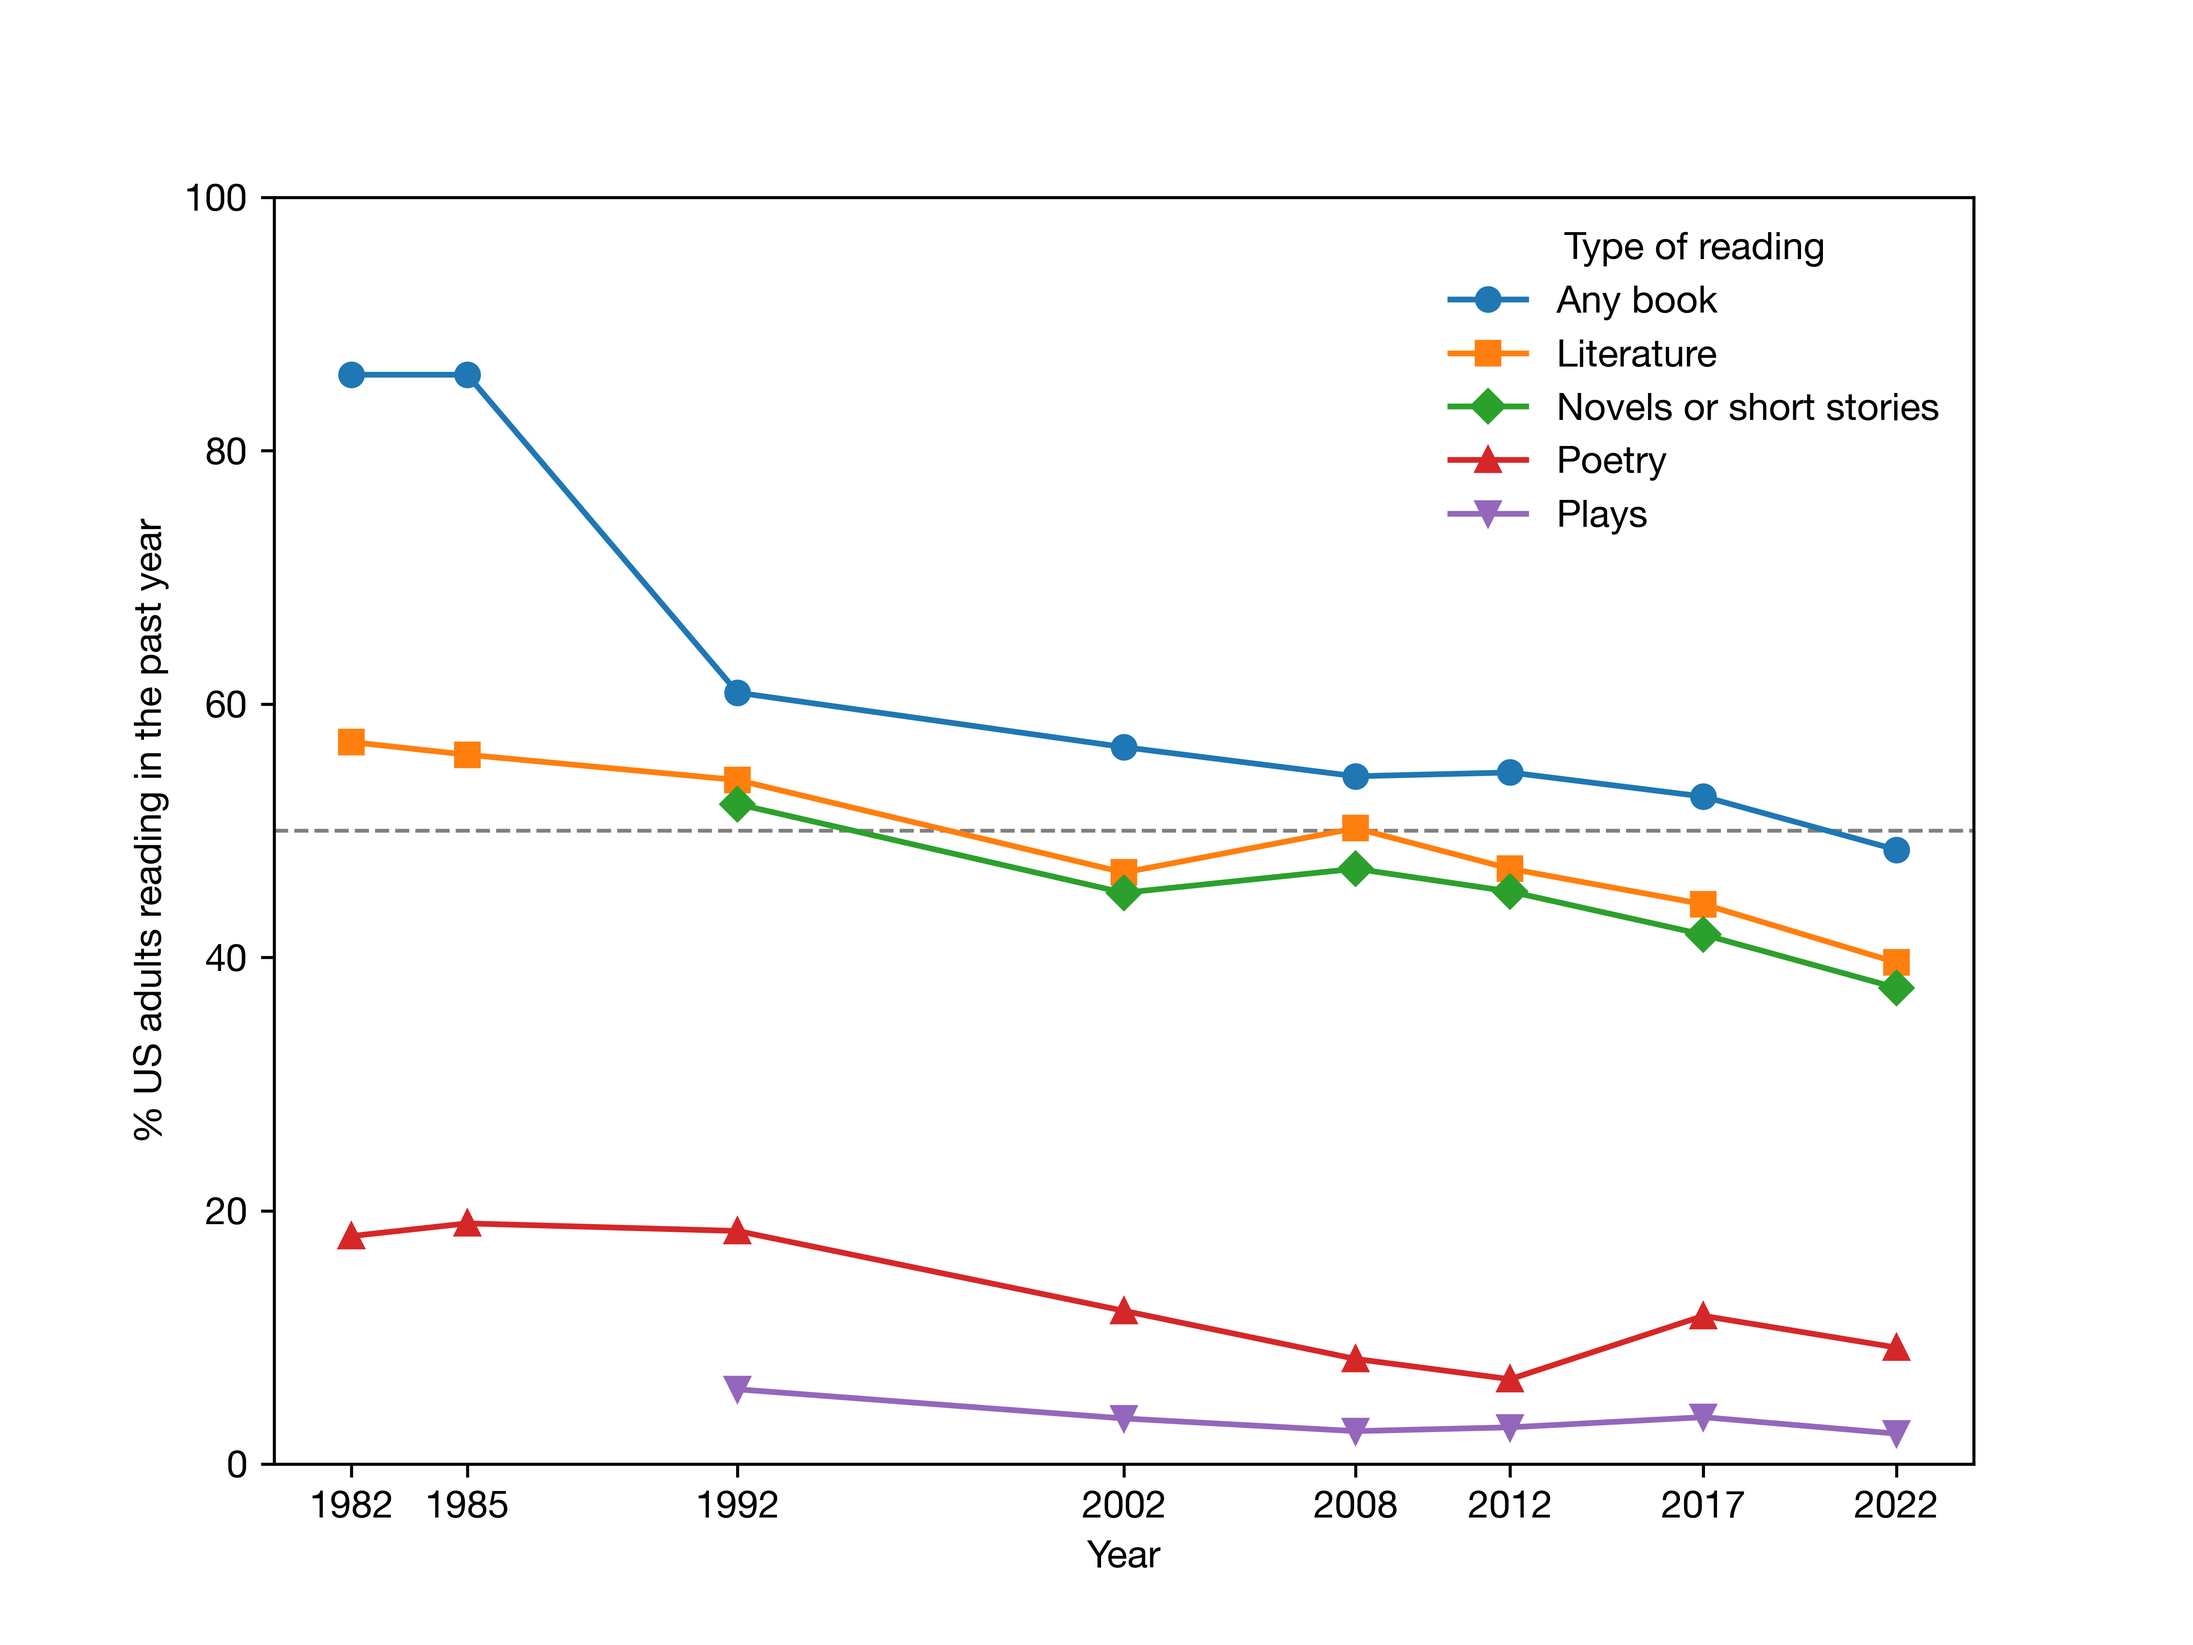
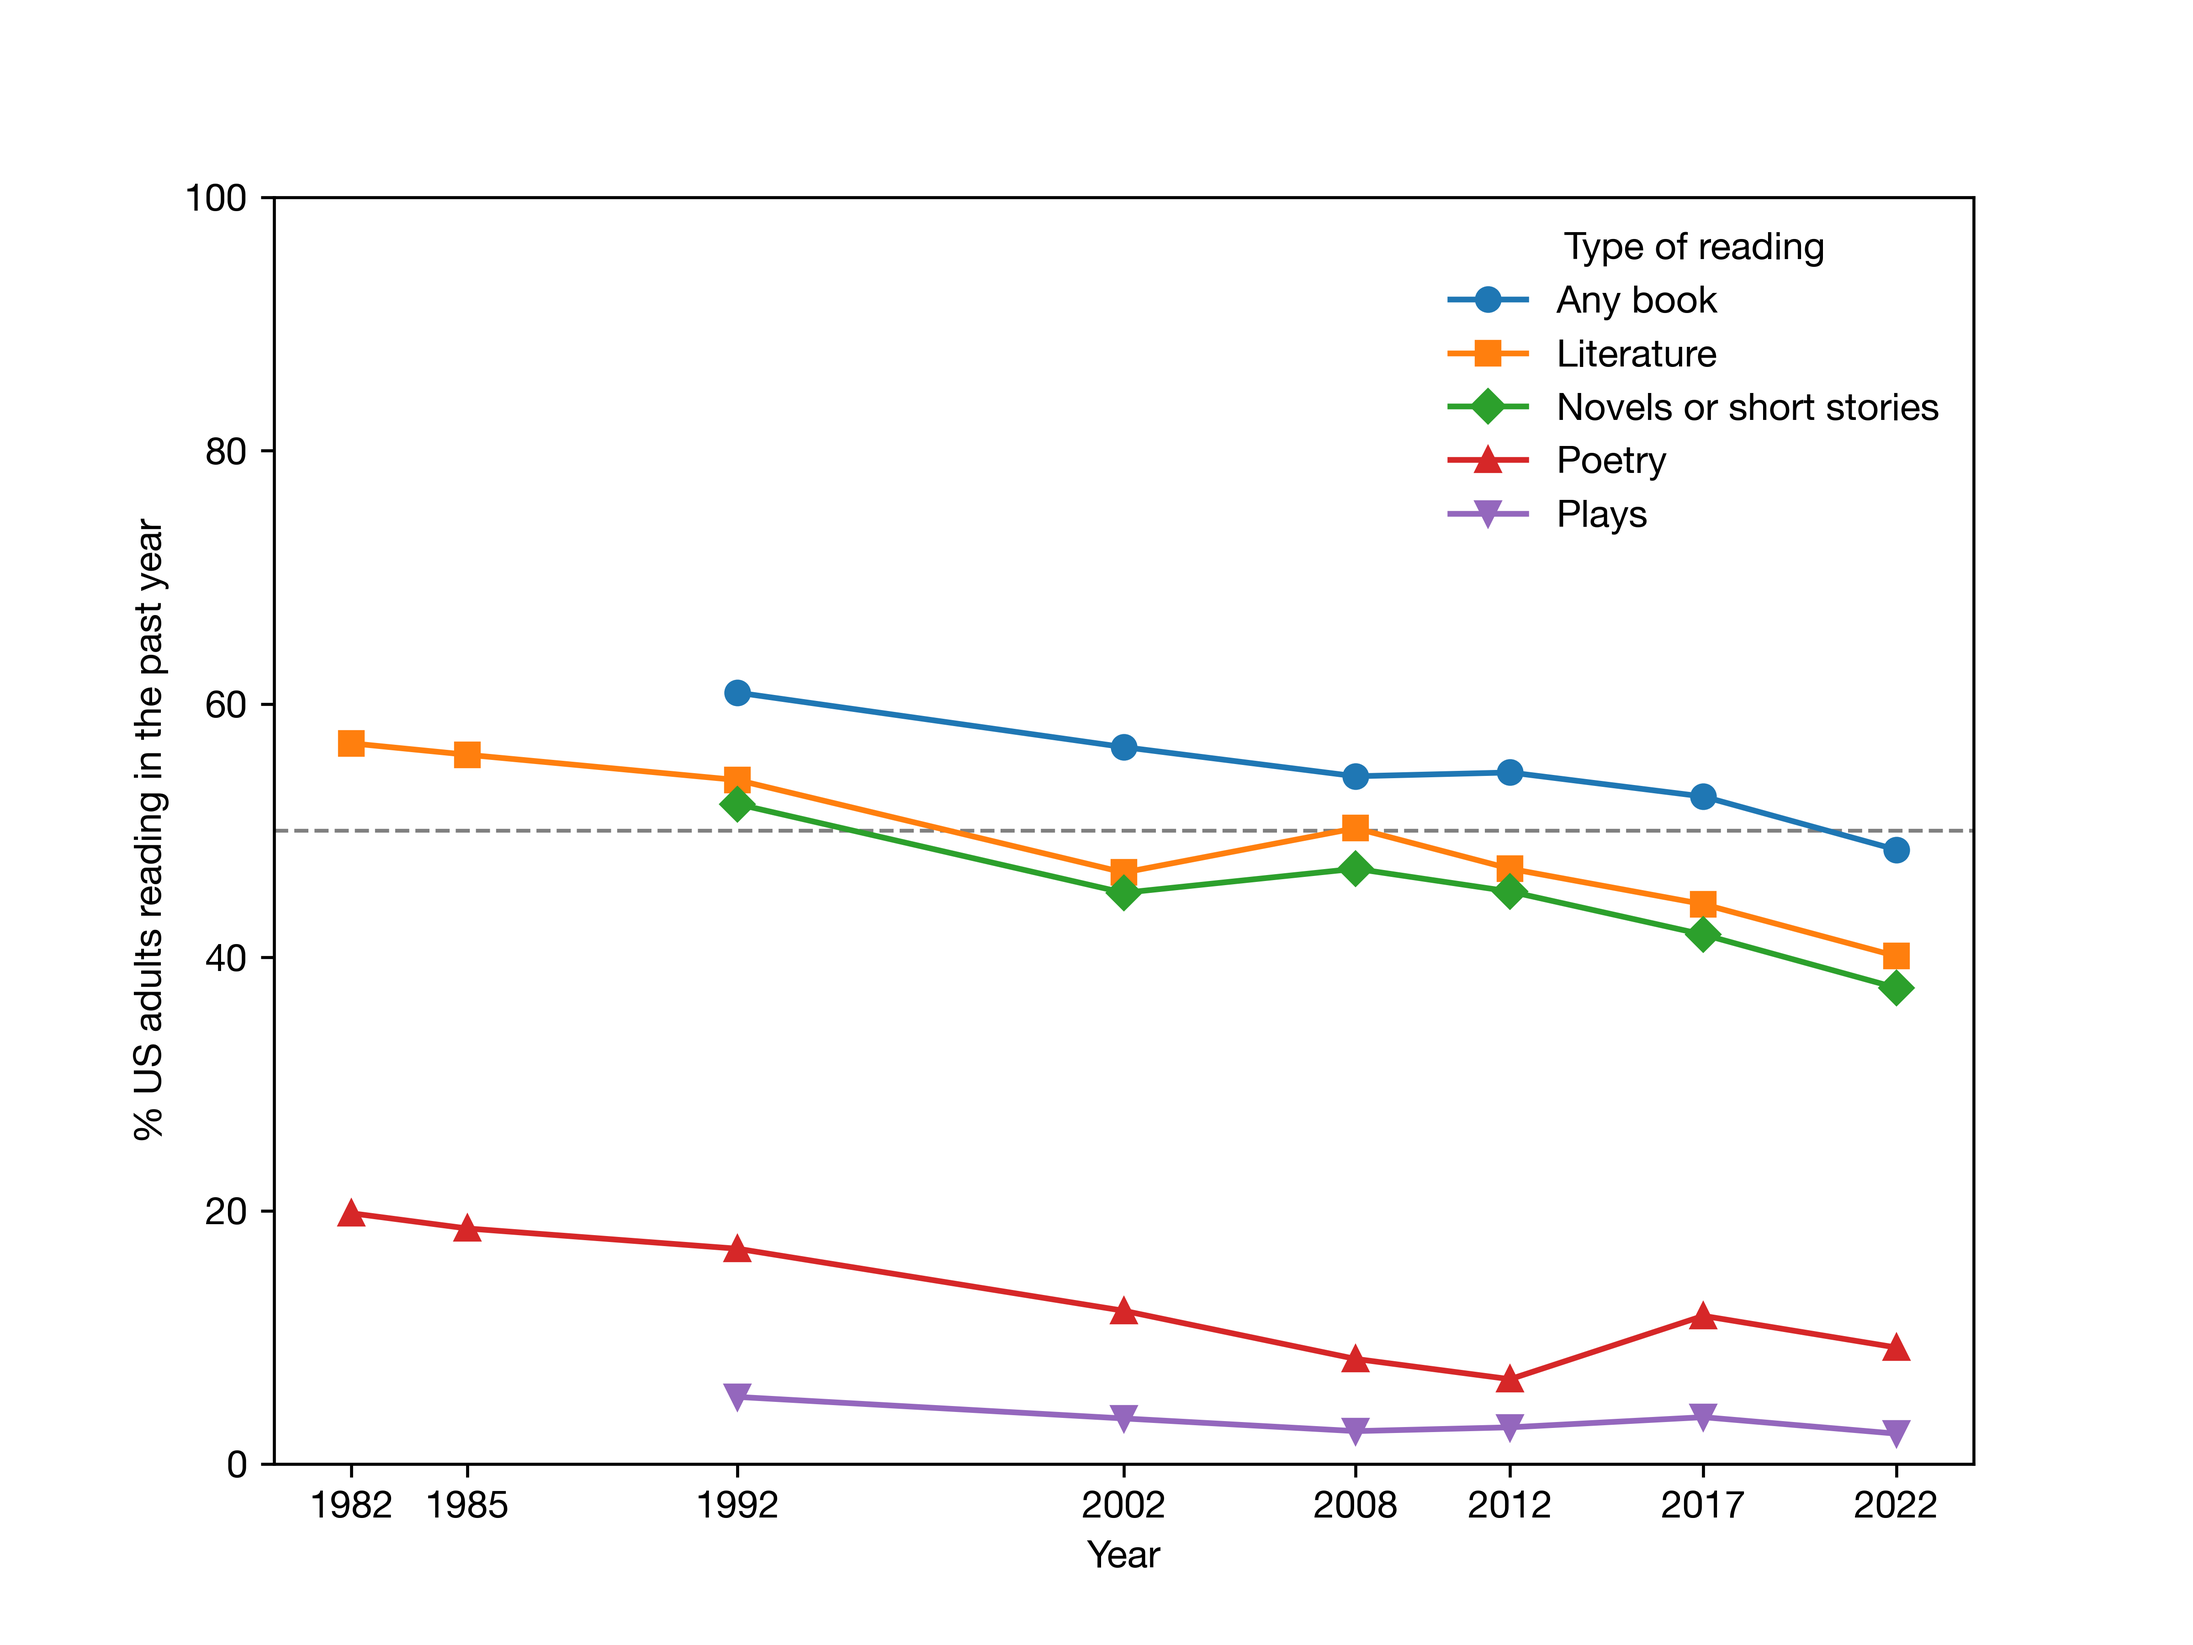
rework sppa figure: source-direct, odds-ratio variant, magazine flag
- Read data/source/sppa.csv directly; drop the obsolete derived-stage
  conversion (source is already tidy, scripts/data/sppa{,_or}.py removed).
- Add fig1_or.png odds-ratio companion baselined to 1992, mirroring the
  fig3/fig4 relationship.
- Add --include-magazine flag to toggle the new "Any book or magazine"
  series; default omits it.

diff --git a/scripts/figures/sppa.py b/scripts/figures/sppa.py
@@ -1,5 +1,6 @@
 from __future__ import annotations
 
+import argparse
 from pathlib import Path
 from itertools import cycle, islice
 
@@ -25,10 +26,74 @@ def apply_style() -> None:
     )
 
 
+def _plot_timeseries(
+    df: pd.DataFrame,
+    category_order: list[str],
+    value_column: str,
+    ylabel: str,
+    output_path: Path,
+    hline: float | None = None,
+    ylim: tuple[float, float] | None = None,
+) -> None:
+    df = df[df["Read in the last year"].isin(category_order)].copy()
+    df["Read in the last year"] = pd.Categorical(
+        df["Read in the last year"], categories=category_order, ordered=True
+    )
+    df = df.sort_values(["Read in the last year", "Year"])
+    prop_cycle = plt.rcParams.get("axes.prop_cycle")
+    style_cycle = cycle(prop_cycle) if prop_cycle is not None else None
+
+    fig, ax = plt.subplots()
+    if hline is not None:
+        ax.axhline(hline, color="gray", linestyle="dashed", linewidth=1)
+
+    for category in category_order:
+        subset = df[df["Read in the last year"] == category]
+        if subset.empty:
+            continue
+        style_kwargs = next(style_cycle) if style_cycle is not None else {}
+        ax.plot(subset["Year"], subset[value_column], label=category, **style_kwargs)
+
+    ax.set_xlabel("Year")
+    ax.set_ylabel(ylabel)
+    ax.set_xticks(sorted(df["Year"].unique()))
+    ax.xaxis.set_major_formatter(mdates.DateFormatter("%Y"))
+    if ylim is not None:
+        ax.set_ylim(*ylim)
+    ax.legend(title="Type of reading", frameon=False)
+
+    output_path.parent.mkdir(parents=True, exist_ok=True)
+    fig.savefig(output_path)
+    plt.close(fig)
+
+
+def _compute_odds_ratios(df: pd.DataFrame, baseline_year: int) -> pd.DataFrame:
+    df = df[df["Year"].dt.year >= baseline_year].copy()
+    p = df["Percent"] / 100
+    df["Odds"] = p / (1 - p)
+    baseline = (
+        df[df["Year"].dt.year == baseline_year]
+        .set_index("Read in the last year")["Odds"]
+        .rename("BaselineOdds")
+    )
+    df = df.join(baseline, on="Read in the last year")
+    df["Odds Ratio"] = df["Odds"] / df["BaselineOdds"]
+    return df.drop(columns="BaselineOdds")
+
+
 def main() -> None:
+    parser = argparse.ArgumentParser(description="Plot SPPA reading rates.")
+    parser.add_argument(
+        "--include-magazine",
+        action="store_true",
+        help='Include the "Any book or magazine" series (1982, 1985 only).',
+    )
+    args = parser.parse_args()
+
     project_root = Path(__file__).resolve().parents[2]
-    data_path = project_root / "data" / "derived" / "sppa.csv"
-    output_path = project_root / "figures" / "fig1.png"
+    data_path = project_root / "data" / "source" / "sppa.csv"
+    fig_output = project_root / "figures" / "fig1.png"
+    fig_or_output = project_root / "figures" / "fig1_or.png"
 
     apply_style()
 
@@ -42,36 +107,34 @@ def main() -> None:
         "Poetry",
         "Plays",
     ]
+    if args.include_magazine:
+        category_order.insert(0, "Any book or magazine")
 
-    df = df[df["Read in the last year"].isin(category_order)].copy()
-    df["Read in the last year"] = pd.Categorical(
-        df["Read in the last year"], categories=category_order, ordered=True
+    _plot_timeseries(
+        df=df,
+        category_order=category_order,
+        value_column="Percent",
+        ylabel="% US adults reading in the past year",
+        output_path=fig_output,
+        hline=50,
+        ylim=(0, 100),
     )
-    df = df.sort_values(["Read in the last year", "Year"])
-    prop_cycle = plt.rcParams.get("axes.prop_cycle")
-    style_cycle = cycle(prop_cycle) if prop_cycle is not None else None
 
-    fig, ax = plt.subplots()
+    baseline_year = 1992
+    or_categories = [c for c in category_order if c != "Any book or magazine"]
+    or_df = _compute_odds_ratios(df, baseline_year=baseline_year)
+    odds_ratio_series = or_df[or_df["Read in the last year"].isin(or_categories)]["Odds Ratio"]
+    ylim = (0, odds_ratio_series.max() * 1.05)
 
-    ax.axhline(50, color="gray", linestyle="dashed", linewidth=1)
-
-    for category in category_order:
-        subset = df[df["Read in the last year"] == category]
-        if subset.empty:
-            continue
-        style_kwargs = next(style_cycle) if style_cycle is not None else {}
-        ax.plot(subset["Year"], subset["Percent"], label=category, **style_kwargs)
-
-    ax.set_xlabel("Year")
-    ax.set_ylabel("% US adults reading in the past year")
-    ax.set_xticks(sorted(df["Year"].unique()))
-    ax.xaxis.set_major_formatter(mdates.DateFormatter("%Y"))
-    ax.set_ylim(0, 100)
-    ax.legend(title="Type of reading", frameon=False)
-
-    output_path.parent.mkdir(parents=True, exist_ok=True)
-    fig.savefig(output_path)
-    plt.close(fig)
+    _plot_timeseries(
+        df=or_df,
+        category_order=or_categories,
+        value_column="Odds Ratio",
+        ylabel=f"Odds ratio relative to {baseline_year}",
+        output_path=fig_or_output,
+        hline=1,
+        ylim=ylim,
+    )
 
 
 if __name__ == "__main__":

diff --git a/CLAUDE.md b/CLAUDE.md
@@ -18,15 +18,15 @@ The repo is a two-stage pipeline with scripts separated from data. Understand th
 
 Layout: `scripts/data/*.py` and `scripts/figures/*.py` hold all code; `data/source/` is raw inputs, `data/derived/` is tidy CSVs, `figures/` is PNG outputs. Every script computes `project_root = Path(__file__).resolve().parents[2]` and addresses inputs/outputs from there — preserve that pattern when adding new scripts.
 
-**Stage 1 — `data/source/` → `data/derived/*.csv`.** Each script in `scripts/data/` (excluding the `_or` variants) reads raw file(s) under `data/source/` and writes a tidy CSV to `data/derived/`. Mapping is by filename: `scripts/data/sppa.py` reads `data/source/sppa.csv` and writes `data/derived/sppa.csv`; `scripts/data/atus.py` reads every CSV under `data/source/atus/` (filenames encode `<series_id> - <activity>`) and writes `data/derived/atus.csv`; `scripts/data/ltt.py` reads `data/source/ltt/<age>.csv` files; `scripts/data/atus_ed.py` reads `data/source/atus_ed.csv`.
+**Stage 1 — `data/source/` → `data/derived/*.csv`.** Each script in `scripts/data/` (excluding the `_or` variants) reads raw file(s) under `data/source/` and writes a tidy CSV to `data/derived/`. Mapping is by filename: `scripts/data/atus.py` reads every CSV under `data/source/atus/` (filenames encode `<series_id> - <activity>`) and writes `data/derived/atus.csv`; `scripts/data/ltt.py` reads `data/source/ltt/<age>.csv` files; `scripts/data/atus_ed.py` reads `data/source/atus_ed.csv`. SPPA has no stage-1 script: `data/source/sppa.csv` is already tidy and is consumed directly by `scripts/figures/sppa.py`.
 
 **Stage 2 — `data/derived/*.csv` → `data/derived/*_or.csv` (odds-ratio variants).** Scripts ending in `_or.py` consume a stage-1 CSV and emit an odds-ratio version, using `compute_odds()` from `scripts/data/odds.py`. The import is bare (`from odds import compute_odds`) and works because Python puts the script's directory on `sys.path`; run these as `python scripts/data/<name>_or.py`, not as a module. The odds ratio for each category is computed against that category's earliest available year (the baseline). `scripts/data/ltt_or_weekly.py` is a further derivation that first sums "Almost every day" + "Once or twice a week" before computing odds ratios.
 
-**Stage 3 — `data/derived/*.csv` → `figures/*.png`.** Scripts in `scripts/figures/` read tidy CSVs from `data/derived/` and write PNGs to `figures/`. The published figure mapping is:
+**Stage 3 — tidy CSVs → `figures/*.png`.** Scripts in `scripts/figures/` read tidy CSVs (from `data/derived/`, except `sppa.py` which reads `data/source/sppa.csv` directly) and write PNGs to `figures/`. The published figure mapping is:
 
 | Script | Output(s) |
 | --- | --- |
-| `scripts/figures/sppa.py` | `figures/fig1.png` |
+| `scripts/figures/sppa.py` | `figures/fig1.png`, `figures/fig1_or.png` (odds ratio relative to 1992) |
 | `scripts/figures/atus.py` | `figures/atus.png`, `figures/fig2.png` (odds ratio) |
 | `scripts/figures/atus_ed.py` | `figures/fig3.png`, `figures/fig4.png` (odds ratio) |
 | `scripts/figures/ltt.py` | `figures/fig5.png` |
@@ -36,7 +36,7 @@ To regenerate everything from scratch: re-run every `scripts/data/*.py` (base CS
 
 ## Conventions
 
-- **Percentages are stored as `1.6` meaning 1.6%**, matching how the source agencies (NEA/SPPA, BLS/ATUS, NAEP/LTT) publish them. `data/sppa.py` is the exception that *creates* this convention — its source stores proportions (0.016) and it multiplies by 100. Don't double-convert.
+- **Percentages are stored as `1.6` meaning 1.6%**, matching how the source agencies (NEA/SPPA, BLS/ATUS, NAEP/LTT) publish them.
 - **Blank cells in tidy CSVs represent data not collected**, not zero. Scripts skip empty values rather than imputing.
 - **Odds-ratio scripts baseline each category to its own earliest year**, not to a global year. Two categories with different first-observed years will have ratio = 1 in different years. The figure y-axis labels currently say "relative to 2003" / "relative to 2004" — if you change the underlying data and a category's first year shifts, update the label too.
 - **Each figure script defines its own `apply_style()`** that sets 8x6 inches at 600 dpi, Helvetica Neue, and a combined color+marker cycle. They're duplicated rather than shared; if you change the style, change it in every figure script.
